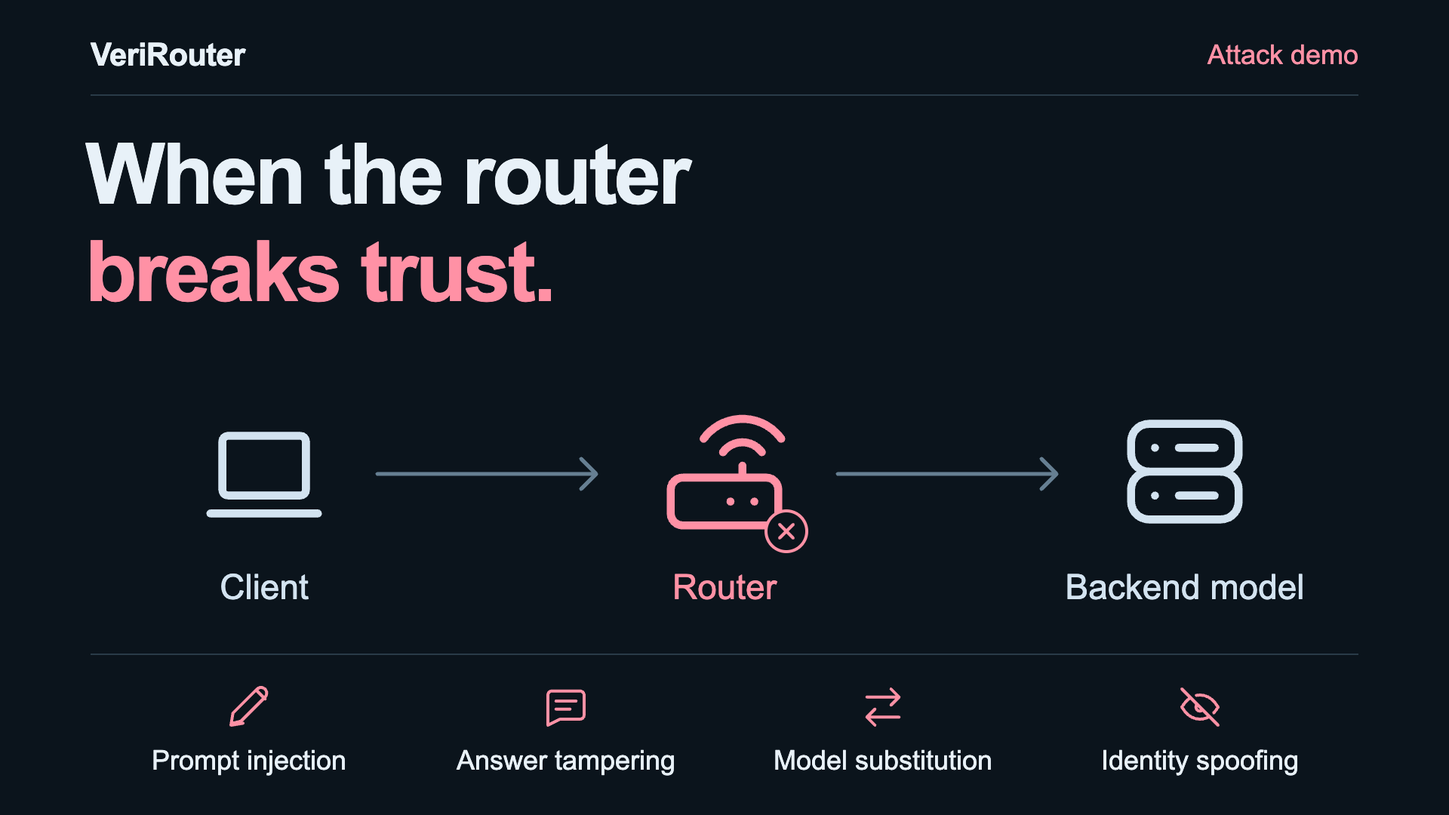
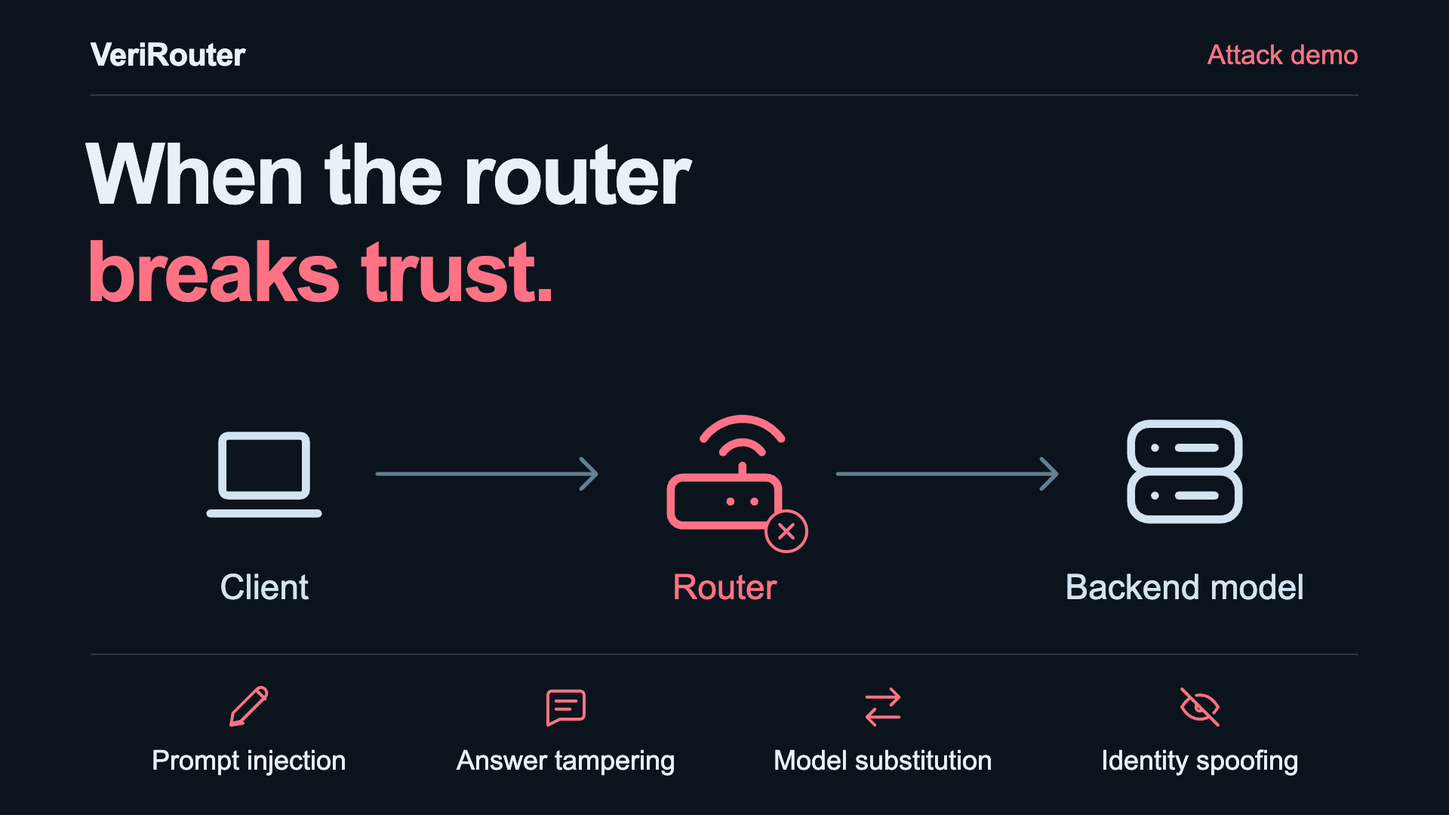
Refine performance layout and demo playback

diff --git a/styles.css b/styles.css
@@ -1,6 +1,6 @@
 @font-face {font-family:'Inter Tight';src:url('assets/fonts/inter-tight.ttf') format('truetype');font-weight:100 900;font-display:swap}
 @font-face {font-family:'IBM Plex Mono';src:url('assets/fonts/ibm-plex-mono.ttf') format('truetype');font-weight:400;font-display:swap}
-:root {--bg:#0b141c;--panel:#112330;--ink:#e7eff6;--muted:#aec5d6;--line:#304a5e;--blue:#8ac8fa;--mint:#9bdcbe;--rose:#f48c9f;--sans:'Inter Tight',Arial,sans-serif;--mono:'IBM Plex Mono',monospace;color-scheme:dark}
+:root {--bg:#0b141c;--panel:#112330;--ink:#e7eff6;--muted:#aec5d6;--line:#304a5e;--blue:#8ac8fa;--mint:#9bdcbe;--rose:#ff7285;--attack:#ff7285;--sans:'Inter Tight',Arial,sans-serif;--mono:'IBM Plex Mono',monospace;color-scheme:dark}
 * {box-sizing:border-box}
 html {scroll-behavior:smooth;scroll-padding-top:30px}
 body {margin:0;background:var(--bg);color:var(--ink);font:22px/1.55 var(--sans);-webkit-font-smoothing:antialiased}
@@ -48,11 +48,16 @@ main {display:flex;flex-direction:column;gap:100px}
 .hero-story strong {display:block;font-size:27px;line-height:1.4;font-weight:550;color:var(--ink);margin-top:18px}
 .hero-actions {display:flex;align-items:center;flex-wrap:wrap;gap:24px;margin-top:30px}
 .hero-route,.verifier-route {display:grid;grid-template-columns:minmax(0,1fr) 32px minmax(0,1fr) 32px minmax(0,1fr);align-items:start;gap:10px}
-.hero-route {padding:25px 0;border-block:1px solid var(--line)}
+.hero-route {grid-template-columns:minmax(0,1fr) 90px minmax(0,1fr) 90px minmax(0,1fr);gap:6px;padding:25px 0;border-block:1px solid var(--line)}
+.hero-route .route-node>.icon {width:76px;height:76px}
+.hero-route .route-arrows {gap:0;padding-top:22px}
+.hero-route .route-arrows>.hero-hop {display:block;width:100%;height:16px}
 .hero-route .hero-request {color:var(--blue)}
 .hero-route .hero-response {color:var(--mint)}
-.hero-route .hero-hop>use {opacity:.48}
-.hero-route .hero-packet {fill:currentColor;stroke:var(--bg);stroke-width:.7;opacity:0;animation:hero-packet-travel 8s linear infinite}
+.hero-route .hero-connector {opacity:.48;stroke-width:1.35;vector-effect:non-scaling-stroke}
+.hero-route .hero-packet {opacity:0;filter:drop-shadow(0 0 2px currentColor);animation:hero-packet-travel 8s linear infinite}
+.hero-route .hero-packet-head {fill:currentColor;stroke:currentColor;stroke-width:6;vector-effect:non-scaling-stroke}
+.hero-route .hero-packet-trail {fill:none;stroke:currentColor;stroke-width:5;stroke-linecap:round;opacity:.22;vector-effect:non-scaling-stroke}
 .hero-leg-client .hero-request .hero-packet {animation-delay:.4s}
 .hero-leg-backend .hero-request .hero-packet {animation-delay:1.9s}
 .hero-leg-backend .hero-response .hero-packet {animation-delay:4.4s}
@@ -63,8 +68,8 @@ main {display:flex;flex-direction:column;gap:100px}
 @keyframes hero-packet-travel {
   0% {opacity:0;transform:translateX(0)}
   2% {opacity:1;transform:translateX(0)}
-  14% {opacity:1;transform:translateX(14px)}
-  16%,100% {opacity:0;transform:translateX(14px)}
+  14% {opacity:1;transform:translateX(88px)}
+  16%,100% {opacity:0;transform:translateX(88px)}
 }
 @keyframes hero-client-arrival {
   0%,83%,95%,100% {color:#c1d8e9;filter:drop-shadow(0 0 0 transparent);transform:scale(1)}
@@ -91,18 +96,20 @@ main {display:flex;flex-direction:column;gap:100px}
 .chapter-label {display:flex;align-items:center;gap:14px;font-size:18px;color:#a0c4de;margin-bottom:17px}
 .chapter-label>span {font:18px/1.5 var(--mono);color:var(--blue);padding-right:14px;border-right:1px solid #4d718b}
 .chapter-heading>p:not(.chapter-label) {font-size:22px;line-height:1.55;color:var(--muted);margin-top:20px;max-width:980px}
+.attack-accent {color:var(--attack)}
+.verification-accent {color:var(--blue)}
 #interactive {padding-top:32px}
 #interactive .chapter-heading {margin-bottom:24px}
 #interactive .chapter-label {margin-bottom:14px}
 #interactive .chapter-heading>p:not(.chapter-label) {margin-top:16px}
-.film-frame {position:relative;background:var(--bg);border:1px solid var(--line);border-radius:8px;overflow:hidden}
+.film-frame {position:relative;width:min(100%,1080px);margin-inline:auto;background:var(--bg);border:1px solid var(--line);border-radius:8px;overflow:hidden}
 video {display:block;width:100%;aspect-ratio:16/9;object-fit:contain;background:var(--bg)}
-.film-play {position:absolute;right:4%;top:32%;transform:translateY(-50%);display:grid;place-items:center;width:80px;height:80px;border-radius:50%;border:1px solid #b5dfff;background:#8ac8fa;color:#0d2537;box-shadow:0 6px 24px #0003}
+.film-play {position:absolute;left:50%;top:50%;right:auto;bottom:auto;transform:translate(-50%,-50%);display:grid;place-items:center;width:80px;height:80px;padding:0;line-height:0;border-radius:50%;border:1px solid #b5dfff;background:#8ac8fa;color:#0d2537;box-shadow:0 6px 24px #0003}
 .film-play:hover {background:#b9e1ff}
-#verification .film-play {background:#82dec2;border-color:#b4efdf;color:#0b3025}
-#verification .film-play:hover {background:#b4efdf}
-.film-play>.icon {width:34px;height:34px;stroke-width:1.6;margin-left:3px}
-.film-meta {display:flex;justify-content:space-between;align-items:center;gap:20px;font-size:17px;color:#9dbbd1;margin-top:12px}
+#attack .film-play {background:var(--attack);border-color:#ffacb8;color:#36131d}
+#attack .film-play:hover {background:#ff9aa8}
+.film-play>.icon {width:34px;height:34px;fill:currentColor;stroke:none;margin:0}
+.film-meta {display:flex;justify-content:space-between;align-items:center;gap:20px;width:min(100%,1080px);margin-inline:auto;font-size:17px;color:#9dbbd1;margin-top:12px}
 .film-meta>span:last-child {font:17px/1.5 var(--mono)}
 .verifier-shell {border:1px solid #41627a;border-radius:9px;background:#0e1d28;padding:24px}
 .verifier-toolbar {display:flex;justify-content:space-between;align-items:center;gap:24px}
@@ -127,8 +134,8 @@ video {display:block;width:100%;aspect-ratio:16/9;object-fit:contain;background:
 .response-panel {min-width:0}
 #response-json {margin:0;padding:20px;background:#142b3b;border:1px solid #35566e;border-radius:5px;height:292px;overflow:auto;white-space:pre-wrap;overflow-wrap:anywhere;font:19px/1.45 var(--mono);color:#b7ddce;scrollbar-width:thin;scrollbar-color:#577f9c #142b3b}
 .json-line {display:block;min-height:1.45em}
-.changed-line {background:#502d3d80;color:#ffb2c5;padding-left:8px;box-shadow:-3px 0 var(--rose)}
-#client-question.changed-line {color:#ffb2c5}
+.changed-line {background:#3b293b80;color:#ffb0bc;padding-left:8px;box-shadow:-3px 0 var(--rose)}
+#client-question.changed-line {color:#ffb0bc}
 .checks-panel h3 {margin-bottom:8px}
 .proof-row {display:grid;grid-template-columns:27px minmax(0,1fr) auto;align-items:center;gap:11px;border-bottom:1px solid var(--line);padding:10px 0}
 .proof-row>.icon {width:26px;height:26px;color:var(--blue)}
@@ -145,13 +152,40 @@ video {display:block;width:100%;aspect-ratio:16/9;object-fit:contain;background:
 #proof-outcome {display:block;border-top:1px solid var(--line);margin-top:16px;padding-top:12px;font-size:22px;line-height:1.4;color:#bbd4e6;min-height:44px}
 #proof-outcome[data-accept=true] {color:var(--mint)}
 #proof-outcome[data-accept=false] {color:var(--rose)}
-.key-results {display:grid;grid-template-columns:repeat(3,minmax(0,1fr));gap:33px;margin-top:38px}
-.key-results article {border-right:1px solid var(--line);padding-right:32px}
-.key-results article:last-child {border:0;padding:0}
-.key-results strong {display:block;color:var(--blue);font-size:64px;font-weight:550;line-height:1.1;letter-spacing:-.04em;font-variant-numeric:tabular-nums}
-.key-results h3 {font-size:24px;line-height:1.25;margin:18px 0 12px}
-.key-results p {font-size:21px;color:var(--muted);line-height:1.5}
-.results-link {margin-top:31px}
+.performance-summary {display:grid;grid-template-columns:minmax(0,.95fr) minmax(0,1.25fr);gap:72px;padding:4px 0 34px;border-bottom:1px solid var(--line)}
+.performance-summary article {min-width:0}
+.performance-summary h3 {font-size:24px;letter-spacing:-.02em}
+.client-benchmark h3 {display:flex;align-items:center;gap:12px}
+.client-benchmark h3>.icon {width:29px;height:29px;color:var(--mint)}
+.client-primary {display:flex;flex-direction:column;gap:6px;margin-top:21px}
+.client-primary>strong {font-size:64px;font-weight:550;line-height:1.1;letter-spacing:-.04em;font-variant-numeric:tabular-nums;color:var(--mint)}
+.client-primary small {font-size:29px;font-weight:400;letter-spacing:0}
+.client-primary>span {font-size:20px;color:var(--muted)}
+.client-followup {display:flex;align-items:center;gap:20px;margin-top:23px}
+.client-followup>strong {font-size:29px;font-weight:500;line-height:1.2;font-variant-numeric:tabular-nums;color:#c8e9dc;white-space:nowrap}
+.client-followup small {font-size:20px;font-weight:400}
+.client-followup>span {font-size:19px;line-height:1.4;color:var(--muted);max-width:180px}
+.evidence-benchmark {padding-left:44px;border-left:1px solid var(--line)}
+.evidence-metrics {margin:12px 0 0}
+.evidence-metrics>div {display:grid;grid-template-columns:minmax(0,1fr) auto;gap:24px;align-items:center;padding:14px 0;border-bottom:1px solid var(--line)}
+.evidence-metrics>div:last-child {padding-bottom:0;border:0}
+.evidence-metrics dt {font-size:20px;color:#bfd6e6;line-height:1.4}
+.evidence-metrics dd {margin:0;display:flex;flex-direction:column;align-items:flex-end;gap:4px}
+.evidence-metrics strong {font-size:27px;font-weight:500;line-height:1.3;font-variant-numeric:tabular-nums;white-space:nowrap}
+.evidence-metrics strong>small {font-size:19px;font-weight:400;color:#b4cddd}
+.evidence-metrics dd>span {font-size:18px;line-height:1.4;color:var(--muted);white-space:nowrap}
+.performance-overhead {display:grid;grid-template-columns:minmax(0,.95fr) minmax(0,1.25fr);gap:72px;padding-top:28px;align-items:start}
+.overhead-heading h3 {font-size:24px;letter-spacing:-.02em;line-height:1.35}
+.overhead-heading p {font-size:19px;line-height:1.4;color:var(--muted);margin-top:7px}
+.overhead-metrics {margin:0;display:grid;grid-template-columns:1fr 1fr;gap:32px;padding-left:44px}
+.overhead-metrics dt {font-size:19px;line-height:1.4;color:#bfd6e6}
+.overhead-metrics dd {display:flex;align-items:baseline;flex-wrap:wrap;gap:14px;margin:10px 0 0}
+.overhead-metrics strong {font-size:32px;font-weight:500;line-height:1.2;letter-spacing:-.025em;font-variant-numeric:tabular-nums;color:var(--blue)}
+.overhead-metrics strong>small {font-size:21px;font-weight:400;margin-left:3px}
+.overhead-metrics dd>span {font-size:19px;color:var(--muted);white-space:nowrap}
+.overhead-pinned strong {color:var(--mint)}
+.performance-source {display:flex;align-items:center;justify-content:space-between;gap:20px;margin-top:25px;flex-wrap:wrap;font-size:18px;color:#91b1c8}
+.performance-source .text-link {font-size:19px}
 .paper-section .chapter-heading {max-width:none}
 .paper-section h2 {max-width:1080px;font-size:48px;line-height:1.15;text-wrap:initial}
 .paper-links {display:flex;gap:28px;flex-wrap:wrap;margin-top:25px}
@@ -173,20 +207,39 @@ video {display:block;width:100%;aspect-ratio:16/9;object-fit:contain;background:
 @media(min-width:1600px) {.hero h1{font-size:82px}.hero-story{font-size:26px}.hero-story strong{font-size:28px}}
 @media(max-width:1100px) {
   .hero{grid-template-columns:1.25fr 1fr;gap:35px}.hero h1{font-size:66px}.hero-story{font-size:24px}.hero-story strong{font-size:26px}.hero-route{gap:7px}.hero-route .route-node>.icon{width:70px;height:70px}.hero-route .route-node>span{font-size:21px}
-  h2{font-size:48px}.verifier-workspace{grid-template-columns:minmax(0,1.3fr) minmax(320px,1fr);gap:23px}.proof-row{gap:9px}.panel-heading{align-items:flex-start;flex-direction:column;gap:5px}.key-results strong{font-size:58px}.key-results h3{font-size:23px}.key-results p{font-size:20px}
+  h2{font-size:48px}.verifier-workspace{grid-template-columns:minmax(0,1.3fr) minmax(320px,1fr);gap:23px}.proof-row{gap:9px}.panel-heading{align-items:flex-start;flex-direction:column;gap:5px}
 }
 @media(max-width:850px) {
   .container{width:calc(100% - 48px)}.header-inner{height:auto;grid-template-columns:minmax(0,1fr) auto;row-gap:12px;padding-block:16px 12px}.wordmark{font-size:28px}.site-nav{grid-column:1/-1;grid-row:2;justify-self:stretch;gap:24px;padding-top:10px;border-top:1px solid #263d4e;font-size:18px}.site-nav a{padding:6px 12px}.site-nav a::after{left:12px;right:12px}.header-code{font-size:18px}main{gap:82px}.hero{grid-template-columns:1fr;padding-top:45px;gap:34px}.hero h1{font-size:72px}.hero-story{font-size:25px;max-width:720px}.hero-story strong{font-size:27px}.hero-route{max-width:640px;width:100%;padding:24px 0}.hero-route .route-node>.icon{width:76px;height:76px}.hero-route .route-node>span{font-size:22px}.chapter{padding-top:41px}h2{font-size:46px}.chapter-heading{margin-bottom:29px}
   .verifier-shell{padding:24px}.verifier-route{gap:15px}.verifier-route .route-node{flex-direction:column}.verifier-workspace{grid-template-columns:1fr;gap:27px}.panel-heading{align-items:center;flex-direction:row}#response-json{height:auto;max-height:450px;min-height:0}.proof-row{padding:13px 0;grid-template-columns:29px minmax(0,1fr) auto;gap:13px}.proof-row>div>span{font-size:20px}.proof-time{font-size:19px}#proof-total{font-size:44px}
-  .key-results{grid-template-columns:1fr;gap:26px}.key-results article{border:0;border-bottom:1px solid var(--line);padding:0 0 27px}.key-results strong{font-size:60px}.key-results h3{font-size:25px;margin:16px 0 12px}.key-results p{font-size:22px}.paper-section h2{font-size:44px}.integration-section{margin-bottom:65px}
+  .paper-section h2{font-size:44px}.integration-section{margin-bottom:65px}
 }
 @media(max-width:600px) {
   body{font-size:20px}.container{width:calc(100% - 36px)}.header-inner{height:auto;column-gap:16px;row-gap:12px;padding-block:15px 12px}.wordmark{font-size:26px}.brand-mark{width:30px;height:30px}.site-nav{justify-content:space-between;gap:4px;padding-top:9px;font-size:17px}.site-nav a{min-height:40px;padding:6px 8px}.site-nav a::after{left:8px;right:8px}.header-code{font-size:17px;gap:6px;padding:7px 10px}
   main{gap:65px}.hero{padding-top:34px;gap:30px}.hero h1{font-size:clamp(46px,12.4vw,70px);line-height:1.04}.hero-story{font-size:23px;line-height:1.5;margin-top:24px}.hero-story strong{font-size:25px;line-height:1.4;margin-top:18px}.hero-actions{gap:20px;margin-top:25px}.hero-actions .button{font-size:19px;padding:12px 16px}.hero-actions .text-link{font-size:19px}.hero-route{grid-template-columns:minmax(0,1fr) 24px minmax(0,1fr) 24px minmax(0,1fr);gap:6px}.hero-route .route-node>.icon{width:58px;height:58px}.hero-route .route-node>span{font-size:20px;line-height:1.3}.hero-route .route-node{gap:13px}.hero-route .route-arrows{padding-top:12px;gap:8px}.route-arrows>.icon{width:24px;height:22px}
-  .chapter{padding-top:34px}.chapter-label{font-size:17px;gap:12px;margin-bottom:15px}.chapter-label>span{font-size:17px;padding-right:12px}h2{font-size:38px;line-height:1.12}.chapter-heading>p:not(.chapter-label){font-size:21px;line-height:1.5;margin-top:18px}.chapter-heading{margin-bottom:25px}.film-frame{border-radius:5px}.film-play{width:52px;height:52px;right:5%;top:33%}.film-play>.icon{width:25px;height:25px}.film-meta{font-size:16px;margin-top:10px}.film-meta>span:last-child{font-size:16px}
+  .chapter{padding-top:34px}.chapter-label{font-size:17px;gap:12px;margin-bottom:15px}.chapter-label>span{font-size:17px;padding-right:12px}h2{font-size:38px;line-height:1.12}.chapter-heading>p:not(.chapter-label){font-size:21px;line-height:1.5;margin-top:18px}.chapter-heading{margin-bottom:25px}.film-frame{border-radius:5px}.film-play{width:52px;height:52px}.film-play>.icon{width:25px;height:25px}.film-meta{font-size:16px;margin-top:10px}.film-meta>span:last-child{font-size:16px}
   .verifier-shell{padding:18px 15px;border-radius:7px}.verifier-toolbar{align-items:stretch;flex-direction:column;gap:14px}.evidence-picker{gap:7px;flex-direction:column;align-items:stretch}.evidence-picker>label{font-size:17px}.select-wrap{min-width:0;flex:1}.select-wrap select{font-size:19px;padding:10px 36px 10px 12px}.select-wrap>.icon{right:10px}.verifier-toolbar>.button{font-size:19px;width:100%;padding:11px}.client-request{grid-template-columns:1fr;gap:7px;margin-top:12px;padding-top:12px}.request-label{font-size:16px}#client-question{font-size:20px}.verifier-route{grid-template-columns:minmax(0,1fr) 20px minmax(0,1fr) 20px minmax(0,1fr);gap:7px;margin:18px auto}.verifier-route .route-node>.icon{width:46px;height:46px}.verifier-route .route-node>span{font-size:18px;line-height:1.3}.verifier-route .route-node{gap:8px}.verifier-route .route-arrows{gap:6px;padding-top:10px}.verifier-route .route-arrows>.icon{width:20px;height:20px}.verifier-workspace{gap:25px;padding-top:21px}.panel-heading{align-items:flex-start;flex-direction:column;gap:7px;margin-bottom:14px}.panel-heading h3,.checks-panel h3{font-size:22px}.panel-heading>span{font-size:18px}#response-json{font-size:18px;line-height:1.45;padding:15px;height:auto;max-height:360px;min-height:0}.proof-row{grid-template-columns:25px minmax(0,1fr) auto;gap:9px;padding:12px 0}.proof-row>.icon{width:25px;height:25px}.proof-row>div>span{font-size:19px;line-height:1.35}.proof-row strong{font-size:16px}.proof-time{font-size:17px}.verification-total{gap:12px;padding-top:20px}.verification-total>span{font-size:18px}#proof-total{font-size:40px}#proof-total small{font-size:17px}#proof-outcome{font-size:21px;margin-top:16px;padding-top:12px}
-  .key-results{margin-top:29px}.key-results strong{font-size:59px}.key-results h3{font-size:24px}.key-results p{font-size:21px}.results-link{font-size:19px;margin-top:28px}.paper-section h2{font-size:37px;line-height:1.15}.paper-links{gap:22px;margin-top:23px}.paper-links .text-link{font-size:19px}.citation-box{padding:20px 17px;margin-top:25px}.citation-heading{padding-bottom:17px}.citation-heading h3{font-size:22px}#copy-citation{font-size:17px}#bibtex{font-size:17px;line-height:1.7;margin-top:18px}
+  .paper-section h2{font-size:37px;line-height:1.15}.paper-links{gap:22px;margin-top:23px}.paper-links .text-link{font-size:19px}.citation-box{padding:20px 17px;margin-top:25px}.citation-heading{padding-bottom:17px}.citation-heading h3{font-size:22px}#copy-citation{font-size:17px}#bibtex{font-size:17px;line-height:1.7;margin-top:18px}
   .integration-section{margin-bottom:60px}.integration-actions{margin-top:23px}.integration-actions .button{font-size:19px}.site-footer>.container{gap:16px}.site-footer .wordmark{font-size:25px}.site-footer .text-link{font-size:17px}
 }
+@media(max-width:1100px) {.hero-route{grid-template-columns:minmax(0,1fr) 86px minmax(0,1fr) 86px minmax(0,1fr);gap:6px}.hero-route .route-node>.icon{width:64px;height:64px}.hero-route .route-arrows{padding-top:16px;gap:0}}
+@media(max-width:850px) {.hero-route{grid-template-columns:minmax(0,1fr) 100px minmax(0,1fr) 100px minmax(0,1fr)}.hero-route .route-node>.icon{width:76px;height:76px}.hero-route .route-arrows{padding-top:22px}}
+@media(max-width:600px) {.hero-route{grid-template-columns:minmax(0,1fr) clamp(46px,13vw,68px) minmax(0,1fr) clamp(46px,13vw,68px) minmax(0,1fr);gap:6px}.hero-route .route-node>.icon{width:58px;height:58px}.hero-route .route-arrows{padding-top:13px;gap:0}}
 @media(prefers-reduced-motion:reduce) {html{scroll-behavior:auto}*,*:before,*:after{animation-duration:.01ms!important;transition-duration:.01ms!important}}
 @media(prefers-reduced-motion:reduce) {.hero-route .hero-packet{display:none;animation:none!important}.hero-route .route-node>.icon{animation:none!important;transform:none;filter:none}}
+@media(max-width:1100px) {
+  .performance-summary,.performance-overhead{gap:44px;grid-template-columns:minmax(0,.9fr) minmax(0,1.2fr)}
+  .evidence-benchmark,.overhead-metrics{padding-left:30px}.client-primary>strong{font-size:60px}.client-followup{gap:16px}.evidence-metrics>div{gap:18px}.overhead-metrics{gap:24px}
+}
+@media(max-width:850px) {
+  .performance-summary,.performance-overhead{gap:30px;grid-template-columns:minmax(0,1fr) minmax(0,1.2fr)}
+  .evidence-benchmark,.overhead-metrics{padding-left:24px}.client-primary>strong{font-size:56px}.client-followup{align-items:flex-start;flex-direction:column;gap:6px;margin-top:21px}.client-followup>span{max-width:none}.evidence-metrics>div{gap:12px}.evidence-metrics dt{font-size:19px}.evidence-metrics strong{font-size:25px}.evidence-metrics dd>span{font-size:18px}.overhead-metrics{grid-template-columns:1fr;gap:22px}.overhead-metrics dd{margin-top:5px}
+}
+@media(max-width:600px) {
+  .performance-summary{grid-template-columns:1fr;gap:30px;padding-top:0;padding-bottom:27px}
+  .performance-summary h3{font-size:23px}.client-primary{margin-top:18px;gap:5px}.client-primary>strong{font-size:56px}.client-primary small{font-size:26px}.client-primary>span{font-size:19px}.client-followup{flex-direction:row;align-items:center;gap:20px;margin-top:18px}.client-followup>strong{font-size:27px}.client-followup small{font-size:19px}.client-followup>span{font-size:18px;max-width:175px}
+  .evidence-benchmark{padding:27px 0 0;border:0;border-top:1px solid var(--line)}.evidence-metrics{margin-top:11px}.evidence-metrics>div{padding:13px 0;gap:16px}.evidence-metrics dt{font-size:19px}.evidence-metrics strong{font-size:25px}.evidence-metrics strong>small{font-size:18px}.evidence-metrics dd>span{font-size:18px}
+  .performance-overhead{grid-template-columns:1fr;padding-top:25px;gap:22px}.overhead-heading h3{font-size:23px}.overhead-heading p{font-size:18px;margin-top:5px}
+  .overhead-metrics{padding:0;gap:19px}.overhead-metrics>div{display:grid;grid-template-columns:minmax(0,1fr) auto;align-items:center;gap:16px}.overhead-metrics dt{font-size:19px}.overhead-metrics dd{margin:0;flex-direction:column;align-items:flex-end;gap:2px}.overhead-metrics strong{font-size:29px}.overhead-metrics strong>small{font-size:20px}.overhead-metrics dd>span{font-size:18px}
+  .performance-source{margin-top:23px;gap:12px;font-size:17px}.performance-source .text-link{font-size:18px}
+}

diff --git a/index.html b/index.html
@@ -81,27 +81,27 @@
       </div>
       <div class="hero-route" role="img" aria-label="The client sends a request through an LLM router to a backend model, and the response returns through the router.">
         <div class="route-node hero-node-client"><svg class="icon" aria-hidden="true"><use href="#i-laptop"/></svg><span>Client</span></div>
-        <div class="route-arrows hero-leg-client"><svg class="icon hero-hop hero-request" viewBox="0 0 24 24" aria-hidden="true"><use href="#i-arrow"/><circle class="hero-packet" cx="5" cy="12" r="2.6"/></svg><svg class="icon reverse hero-hop hero-response" viewBox="0 0 24 24" aria-hidden="true"><use href="#i-arrow"/><circle class="hero-packet" cx="5" cy="12" r="2.6"/></svg></div>
+        <div class="route-arrows hero-leg-client"><svg class="icon hero-hop hero-request" viewBox="0 0 100 24" preserveAspectRatio="none" aria-hidden="true"><path class="hero-connector" d="M4 12h92m-8-6 8 6-8 6"/><g class="hero-packet"><path class="hero-packet-trail" d="M-8 12H1"/><circle class="hero-packet-head" cx="4" cy="12" r="3.5"/></g></svg><svg class="icon reverse hero-hop hero-response" viewBox="0 0 100 24" preserveAspectRatio="none" aria-hidden="true"><path class="hero-connector" d="M4 12h92m-8-6 8 6-8 6"/><g class="hero-packet"><path class="hero-packet-trail" d="M-8 12H1"/><circle class="hero-packet-head" cx="4" cy="12" r="3.5"/></g></svg></div>
         <div class="route-node router-node hero-node-router"><svg class="icon" aria-hidden="true"><use href="#i-router"/></svg><span>LLM router</span></div>
-        <div class="route-arrows hero-leg-backend"><svg class="icon hero-hop hero-request" viewBox="0 0 24 24" aria-hidden="true"><use href="#i-arrow"/><circle class="hero-packet" cx="5" cy="12" r="2.6"/></svg><svg class="icon reverse hero-hop hero-response" viewBox="0 0 24 24" aria-hidden="true"><use href="#i-arrow"/><circle class="hero-packet" cx="5" cy="12" r="2.6"/></svg></div>
+        <div class="route-arrows hero-leg-backend"><svg class="icon hero-hop hero-request" viewBox="0 0 100 24" preserveAspectRatio="none" aria-hidden="true"><path class="hero-connector" d="M4 12h92m-8-6 8 6-8 6"/><g class="hero-packet"><path class="hero-packet-trail" d="M-8 12H1"/><circle class="hero-packet-head" cx="4" cy="12" r="3.5"/></g></svg><svg class="icon reverse hero-hop hero-response" viewBox="0 0 100 24" preserveAspectRatio="none" aria-hidden="true"><path class="hero-connector" d="M4 12h92m-8-6 8 6-8 6"/><g class="hero-packet"><path class="hero-packet-trail" d="M-8 12H1"/><circle class="hero-packet-head" cx="4" cy="12" r="3.5"/></g></svg></div>
         <div class="route-node hero-node-backend"><svg class="icon" aria-hidden="true"><use href="#i-provider"/></svg><span>Backend model</span></div>
       </div>
     </section>
 
     <section class="chapter container" id="attack" aria-labelledby="attack-title">
-      <div class="chapter-heading"><p class="chapter-label"><span>01</span> Attack demo</p><h2 id="attack-title">What can the router change?</h2><p>A toothache question becomes a sponsored recommendation or an answer from the wrong model. Our demo exposes the router actions behind these outcomes.</p></div>
-      <div class="film-frame"><video id="attack-player" controls playsinline preload="none" poster="assets/attack-cover.png" aria-label="Full attack demo"><source src="assets/media/attacks-all.mp4" type="video/mp4"></video><button class="film-play" data-play="attack-player" aria-label="Play the attack demo"><svg class="icon"><use href="#i-play"/></svg></button></div>
+      <div class="chapter-heading"><p class="chapter-label"><span>01</span> Attack demo</p><h2 id="attack-title">The router can <span class="attack-accent">cheat.</span></h2><p>A toothache question becomes a sponsored recommendation or an answer from the wrong model. Our demo exposes the router actions behind these outcomes.</p></div>
+      <div class="film-frame"><video id="attack-player" controls playsinline preload="none" poster="assets/attack-cover.png" aria-label="Full attack demo"><source src="assets/media/attacks-all.mp4" type="video/mp4"></video><button class="film-play" data-play="attack-player" aria-label="Play the attack demo"><svg class="icon" viewBox="0 0 24 24" aria-hidden="true"><path d="M8 5 20 12 8 19Z"/></svg></button></div>
       <div class="film-meta"><span>Attack walkthrough</span><span>5:29</span></div>
     </section>
 
     <section class="chapter container" id="verification" aria-labelledby="verification-title">
-      <div class="chapter-heading"><p class="chapter-label"><span>02</span> Verification demo</p><h2 id="verification-title">Open to verification.</h2><p>Our framework, VeriRouter, uses zero-knowledge proofs to verify model eligibility and endorsed request rewriting. A provider-signed serving certificate authenticates the model and its answer. The router’s semantic index and rewrite banks stay private.</p></div>
-      <div class="film-frame"><video id="verification-player" controls playsinline preload="none" poster="assets/verification-cover.png" aria-label="Full VeriRouter verification demo"><source src="assets/media/verifications-all.mp4" type="video/mp4"></video><button class="film-play" data-play="verification-player" aria-label="Play the verification demo"><svg class="icon"><use href="#i-play"/></svg></button></div>
+      <div class="chapter-heading"><p class="chapter-label"><span>02</span> Verification demo</p><h2 id="verification-title">Make the router <span class="verification-accent">prove it.</span></h2><p>Our framework, VeriRouter, uses zero-knowledge proofs to verify model eligibility and endorsed request rewriting. A provider-signed serving certificate authenticates the model and its answer. The router’s semantic index and rewrite banks stay private.</p></div>
+      <div class="film-frame"><video id="verification-player" controls playsinline preload="none" poster="assets/verification-cover.png" aria-label="Full VeriRouter verification demo"><source src="assets/media/verifications-all.mp4" type="video/mp4"></video><button class="film-play" data-play="verification-player" aria-label="Play the verification demo"><svg class="icon" viewBox="0 0 24 24" aria-hidden="true"><path d="M8 5 20 12 8 19Z"/></svg></button></div>
       <div class="film-meta"><span>Verification walkthrough</span><span>5:49</span></div>
     </section>
 
     <section class="chapter container" id="interactive" aria-labelledby="interactive-title">
-      <div class="chapter-heading"><p class="chapter-label"><span>03</span> Interactive demo</p><h2 id="interactive-title">Try the verifier.</h2><p>Choose a scenario, inspect the API payload, then verify it.</p></div>
+      <div class="chapter-heading"><p class="chapter-label"><span>03</span> Interactive demo</p><h2 id="interactive-title">Try the verifier.</h2></div>
       <div class="verifier-shell" id="proof-demo">
         <div class="verifier-toolbar"><div class="evidence-picker"><label for="proof-variant">Scenario</label><div class="select-wrap"><select id="proof-variant"><option value="honest">Normal serving</option><option value="request">Request injection</option><option value="rewrite">Altered rewrite proof</option><option value="response">Altered answer</option><option value="selection">Altered selection proof</option><option value="model">Altered model identity</option></select><svg class="icon"><use href="#i-arrow"/></svg></div></div><button class="button button-primary" id="run-proof"><svg class="icon"><use href="#i-shield"/></svg>Verify</button></div>
         <div class="client-request"><span class="request-label">Client question</span><p id="client-question">I have a toothache. Can I put crushed aspirin on my gum?</p></div>
@@ -125,9 +125,30 @@
     </section>
 
     <section class="chapter container" id="results" aria-labelledby="results-title">
-      <div class="chapter-heading"><p class="chapter-label"><span>04</span> Benchmark results</p><h2 id="results-title">Practical verification overhead.</h2><p>Measured on RouteLLM and MT-Bench-101.</p></div>
-      <div class="key-results"><article><strong>1,307×</strong><h3>Faster selection proving</h3><p>21.92 s average, compared with SP1.</p></article><article><strong>101×</strong><h3>Faster rewrite proving</h3><p>4.24 s average, compared with Jolt.</p></article><article><strong>+0.11 s</strong><h3>Added latency per turn</h3><p>With session-pinned selection.</p></article></div>
-      <a class="text-link results-link" href="https://arxiv.org/html/2610.17431v1#S6" target="_blank" rel="noopener">Full evaluation in the paper <svg class="icon"><use href="#i-up-right"/></svg></a>
+      <div class="chapter-heading"><p class="chapter-label"><span>04</span> Performance</p><h2 id="results-title">Trust that <span class="verification-accent">keeps up.</span></h2></div>
+      <div class="performance-summary">
+        <article class="client-benchmark">
+          <h3><svg class="icon" aria-hidden="true"><use href="#i-laptop"/></svg>Client verification</h3>
+          <div class="client-primary"><strong>11.91 <small>ms</small></strong><span>Fresh selection</span></div>
+          <div class="client-followup"><strong>7.04 <small>ms</small></strong><span>Later session-pinned turns</span></div>
+        </article>
+        <article class="evidence-benchmark">
+          <h3>Evidence &amp; signing</h3>
+          <dl class="evidence-metrics">
+            <div><dt>Selection proof</dt><dd><strong>0.15 <small>MiB</small></strong></dd></div>
+            <div><dt>Rewrite proof</dt><dd><strong>0.14 <small>MiB</small></strong></dd></div>
+            <div><dt>Backend signing</dt><dd><strong>3.84 <small>ms</small></strong><span>0.145 KiB certificate</span></dd></div>
+          </dl>
+        </article>
+      </div>
+      <div class="performance-overhead">
+        <div class="overhead-heading"><h3>Practical serving latency</h3><p>Added per turn · Proving overlaps inference.</p></div>
+        <dl class="overhead-metrics">
+          <div class="overhead-pinned"><dt>Session-pinned selection</dt><dd><strong>0.38<small>%</small></strong><span>+0.11 s</span></dd></div>
+          <div><dt>Per-turn selection</dt><dd><strong>14.24<small>%</small></strong><span>+4.08 s</span></dd></div>
+        </dl>
+      </div>
+      <div class="performance-source"><span>Paper benchmark averages</span><a class="text-link" href="https://arxiv.org/html/2610.17431v1#S6" target="_blank" rel="noopener">Evaluation in the paper <svg class="icon"><use href="#i-up-right"/></svg></a></div>
     </section>
 
     <section class="chapter container paper-section" id="paper" aria-labelledby="paper-title">
@@ -145,8 +166,8 @@
     </section>
 
     <section class="chapter container integration-section" id="integration" aria-labelledby="integration-title">
-      <div class="chapter-heading"><p class="chapter-label"><span>06</span> Get started</p><h2 id="integration-title">Integrate VeriRouter into your router.</h2><p>Make your routing pipeline open to client verification.</p></div>
-      <div class="integration-actions"><a class="button button-primary" href="https://github.com/Yao-mengyu/VeriRouter-release" target="_blank" rel="noopener"><svg class="icon"><use href="#i-code"/></svg>View code <svg class="icon"><use href="#i-up-right"/></svg></a></div>
+      <div class="chapter-heading"><p class="chapter-label"><span>06</span> Get started</p><h2 id="integration-title">Integrate VeriRouter into your router.</h2><p>Earn your users’ trust with verifiable routing. Keep your routing data and prompt banks proprietary.</p></div>
+      <div class="integration-actions"><a class="button button-primary" href="https://github.com/Yao-mengyu/VeriRouter-release" target="_blank" rel="noopener"><svg class="icon"><use href="#i-code"/></svg>Get started <svg class="icon"><use href="#i-up-right"/></svg></a></div>
     </section>
   </main>
   <footer class="site-footer"><div class="container"><a class="wordmark" href="#main">VeriRouter</a><a class="text-link" href="#main">Back to top <svg class="icon"><use href="#i-arrow"/></svg></a></div></footer>

diff --git a/app.js b/app.js
@@ -15,17 +15,37 @@ let rejectRun;
 
 for (const play of document.querySelectorAll('[data-play]')) {
   const video = document.getElementById(play.dataset.play);
-  video.controls = false;
-  play.addEventListener('click', () => {
+  let hasStarted = !video.paused || video.currentTime > 0 || video.played.length > 0;
+  const hideOverlay = () => { play.hidden = true; video.controls = true; };
+  const rememberStarted = () => { hasStarted = true; hideOverlay(); };
+  const pauseOtherVideos = () => {
     for (const other of document.querySelectorAll('video')) if (other !== video) other.pause();
-    video.controls = true;
-    video.play().catch(() => {});
+  };
+  const syncPlayback = () => {
+    if (video.currentTime > 0 || video.played.length > 0) hasStarted = true;
+    if (hasStarted || !video.paused) hideOverlay();
+  };
+  video.controls = hasStarted;
+  play.hidden = hasStarted;
+  play.addEventListener('click', async () => {
+    hideOverlay();
+    pauseOtherVideos();
+    try { await video.play(); rememberStarted(); }
+    catch {
+      syncPlayback();
+      if (!hasStarted && video.paused) { play.hidden = false; video.controls = false; }
+    }
   });
   video.addEventListener('play', () => {
-    play.hidden = true;
-    for (const other of document.querySelectorAll('video')) if (other !== video) other.pause();
+    hideOverlay();
+    pauseOtherVideos();
   });
-  video.addEventListener('ended', () => { play.hidden = false; });
+  video.addEventListener('playing', () => {
+    rememberStarted();
+    pauseOtherVideos();
+  });
+  for (const event of ['loadedmetadata', 'seeked', 'timeupdate', 'pause', 'ended']) video.addEventListener(event, syncPlayback);
+  window.addEventListener('pageshow', syncPlayback);
 }
 
 function renderApi() {

diff --git a/README.md b/README.md
@@ -1,6 +1,6 @@
 # VeriRouter project website
 
-独立的英文项目网站，按攻击视频 → 验证视频 → 交互验证 → 实验结果 → 论文与 BibTeX 的顺序展示。采用 v38 Demo 的图标和视频，字体、封面、WASM 与证明文件均随网站托管。
+独立的英文项目网站，按攻击视频 → 验证视频 → 交互验证 → 性能 → 论文与 BibTeX 的顺序展示。采用 v38 Demo 的图标和视频，字体、封面、WASM 与证明文件均随网站托管。
 
 ## 本地运行
 
@@ -104,7 +104,7 @@ git push -u origin main
 | `scripts/serve.mjs` / `scripts/build.mjs` / `scripts/check.mjs` | 静态预览、构建与检查 |
 | `scripts/generate-proofs.mjs` / `scripts/prove.py` | 离线证明生成与公开证据导出 |
 
-网页实验结果来自论文 [VeriRouter: Towards Verifiable LLM Routing](https://arxiv.org/abs/2610.17431) §6。交互区域显示访客浏览器实际测得的验证耗时。
+网页 Performance 区域来自论文 [VeriRouter: Towards Verifiable LLM Routing](https://arxiv.org/abs/2610.17431) §6 的原生基准平均值。两栏数据分别展示客户端验证（fresh selection 11.91 ms、session-pinned 后续轮次 7.04 ms）、两份 ZK proof 大小（0.15 / 0.14 MiB）与 backend 签名（3.84 ms、0.145 KiB）。增量延迟区分别标明 session-pinned 的 +0.11 s / 0.38% 和 per-turn 的 +4.08 s / 14.24%，不以包含模型推理的总耗时代表验证开销。证明生成与模型推理重叠；完整生成时间和实验配置见论文。交互区域单独显示访客浏览器实际测得的验证耗时。
 
 ## 重建 WASM
 
